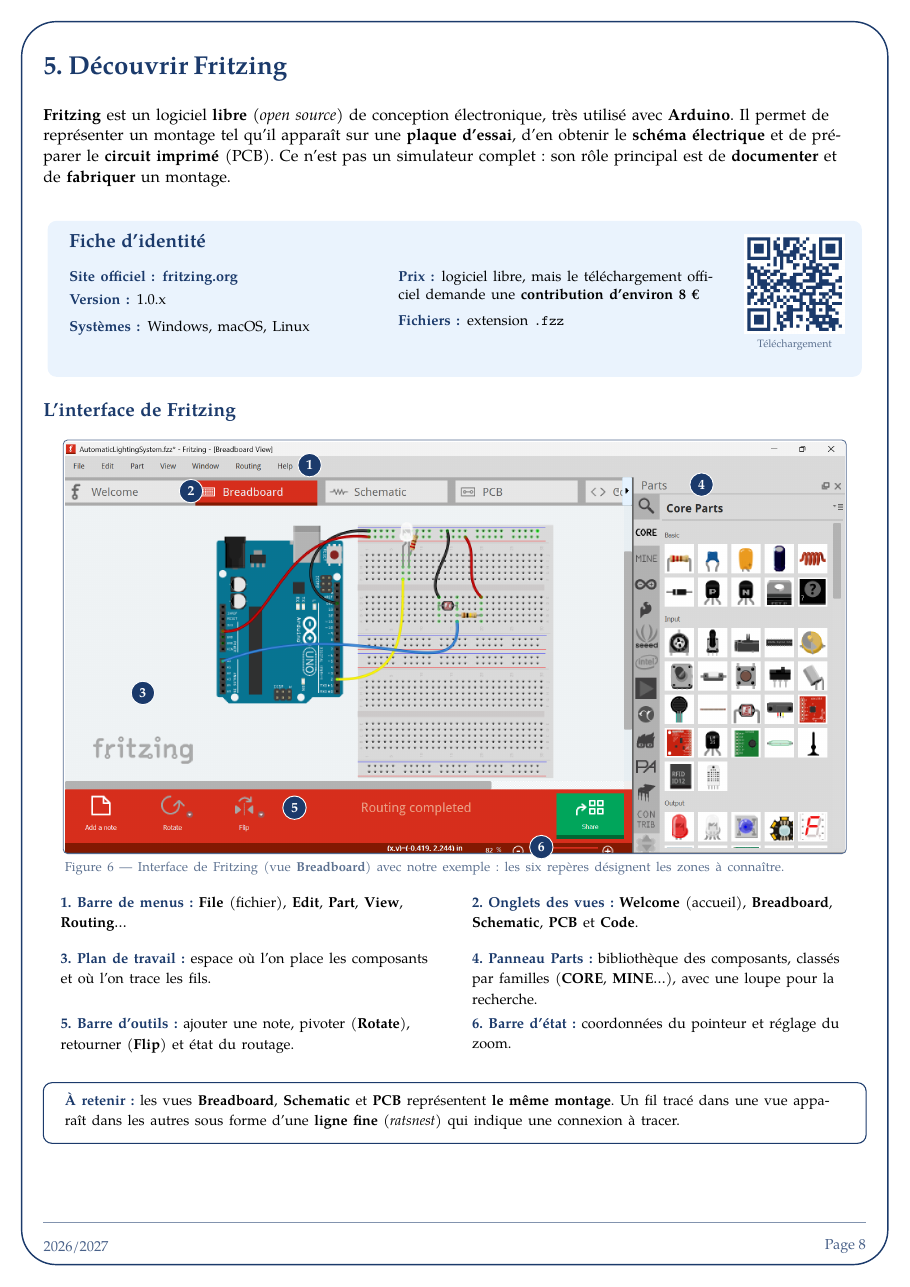
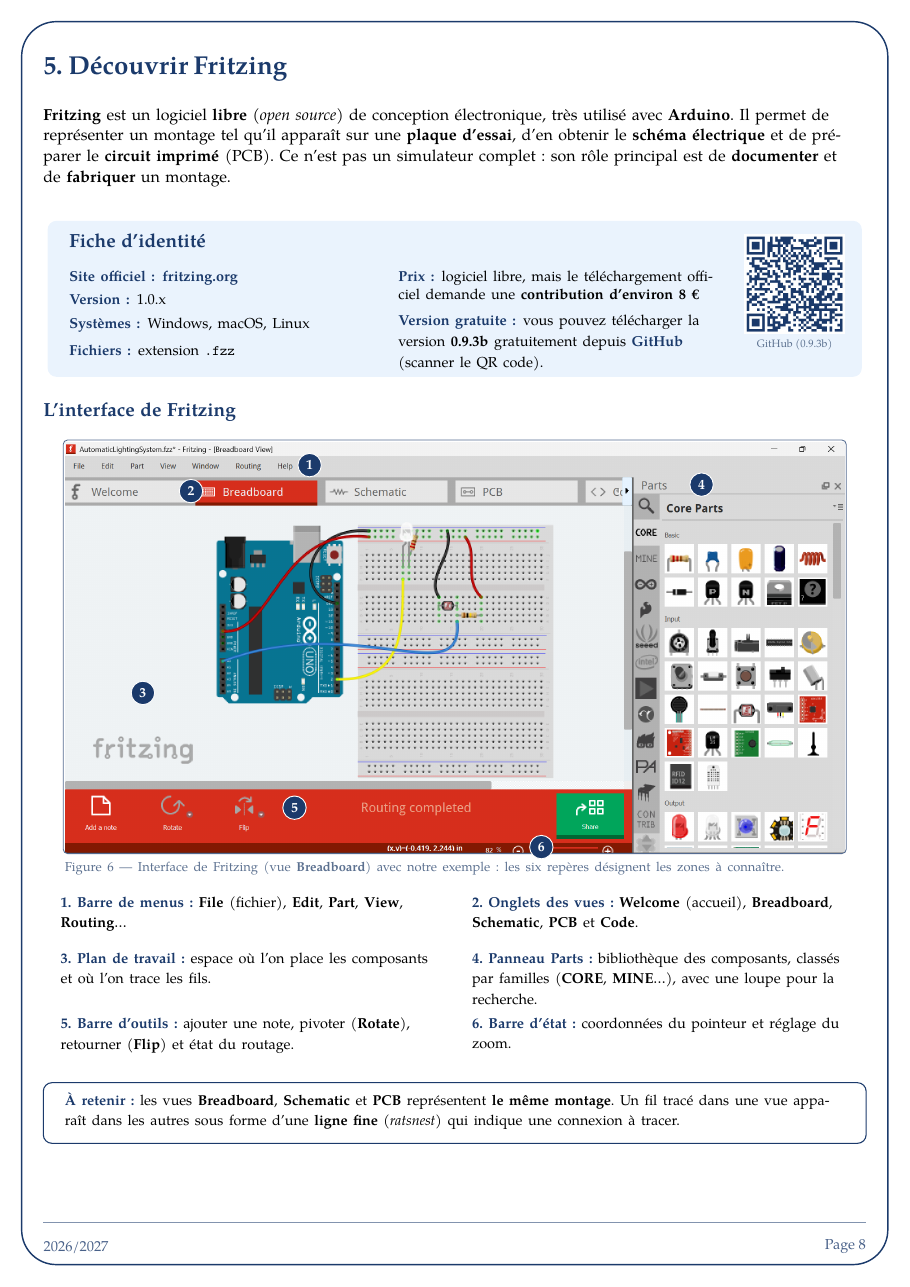
Page 8 : lien GitHub et QR code pour Fritzing 0.9.3b gratuit
Claude-Session: https://claude.ai/code/session_01F1WcwdyeyZPGZbyqYJ6PXE

Changed region(s): [[0.4308, 0.2486, 0.7692, 0.3108], [0.8, 0.1865, 0.9231, 0.2797], [0.0615, 0.2486, 0.3385, 0.2797]]

diff --git a/chapitre2/Chapitre_2_Page_08_L3_ELN_Bouira.tex b/chapitre2/Chapitre_2_Page_08_L3_ELN_Bouira.tex
@@ -36,14 +36,15 @@
 \pos{16mm}{62.5mm}{78mm}{{\smallfont
   \champ{Site officiel}{\href{https://fritzing.org}{\textbf{fritzing.org}}}\\[1.4mm]
   \champ{Version}{1.0.x}\\[1.4mm]
-  \champ{Systèmes}{Windows, macOS, Linux}}}
+  \champ{Systèmes}{Windows, macOS, Linux}\\[1.4mm]
+  \champ{Fichiers}{extension \texttt{.fzz}}}}
 \pos{92mm}{62.5mm}{76mm}{{\smallfont
   \champ{Prix}{logiciel libre, mais le téléchargement officiel demande une \textbf{contribution d'environ 8~€}}\\[1.4mm]
-  \champ{Fichiers}{extension \texttt{.fzz}}}}
+  \champ{Version gratuite}{vous pouvez télécharger la version \textbf{0.9.3b} gratuitement depuis \href{https://github.com/fritzing/fritzing-app/releases\#release-0.9.3b}{\textbf{GitHub}} (scanner le QR code).}}}
 \node[anchor=north east,inner sep=0pt] at ($(current page.north west)+(195mm,-54mm)$)
-  {\href{https://fritzing.org/download}{\includegraphics[width=23mm]{assets/qr_fritzing.png}}};
+  {\href{https://github.com/fritzing/fritzing-app/releases\#release-0.9.3b}{\includegraphics[width=23mm]{assets/qr_fritzing.png}}};
 \node[anchor=north,inner sep=0pt,text=bleugris] at ($(current page.north west)+(183.5mm,-78.3mm)$)
-  {\fontsize{7}{8}\selectfont Téléchargement};
+  {\fontsize{7}{8}\selectfont GitHub (0.9.3b)};
 
 % --- Interface -------------------------------------------------------------------
 \pos{10mm}{93mm}{188mm}{\subsect{L'interface de Fritzing}}
